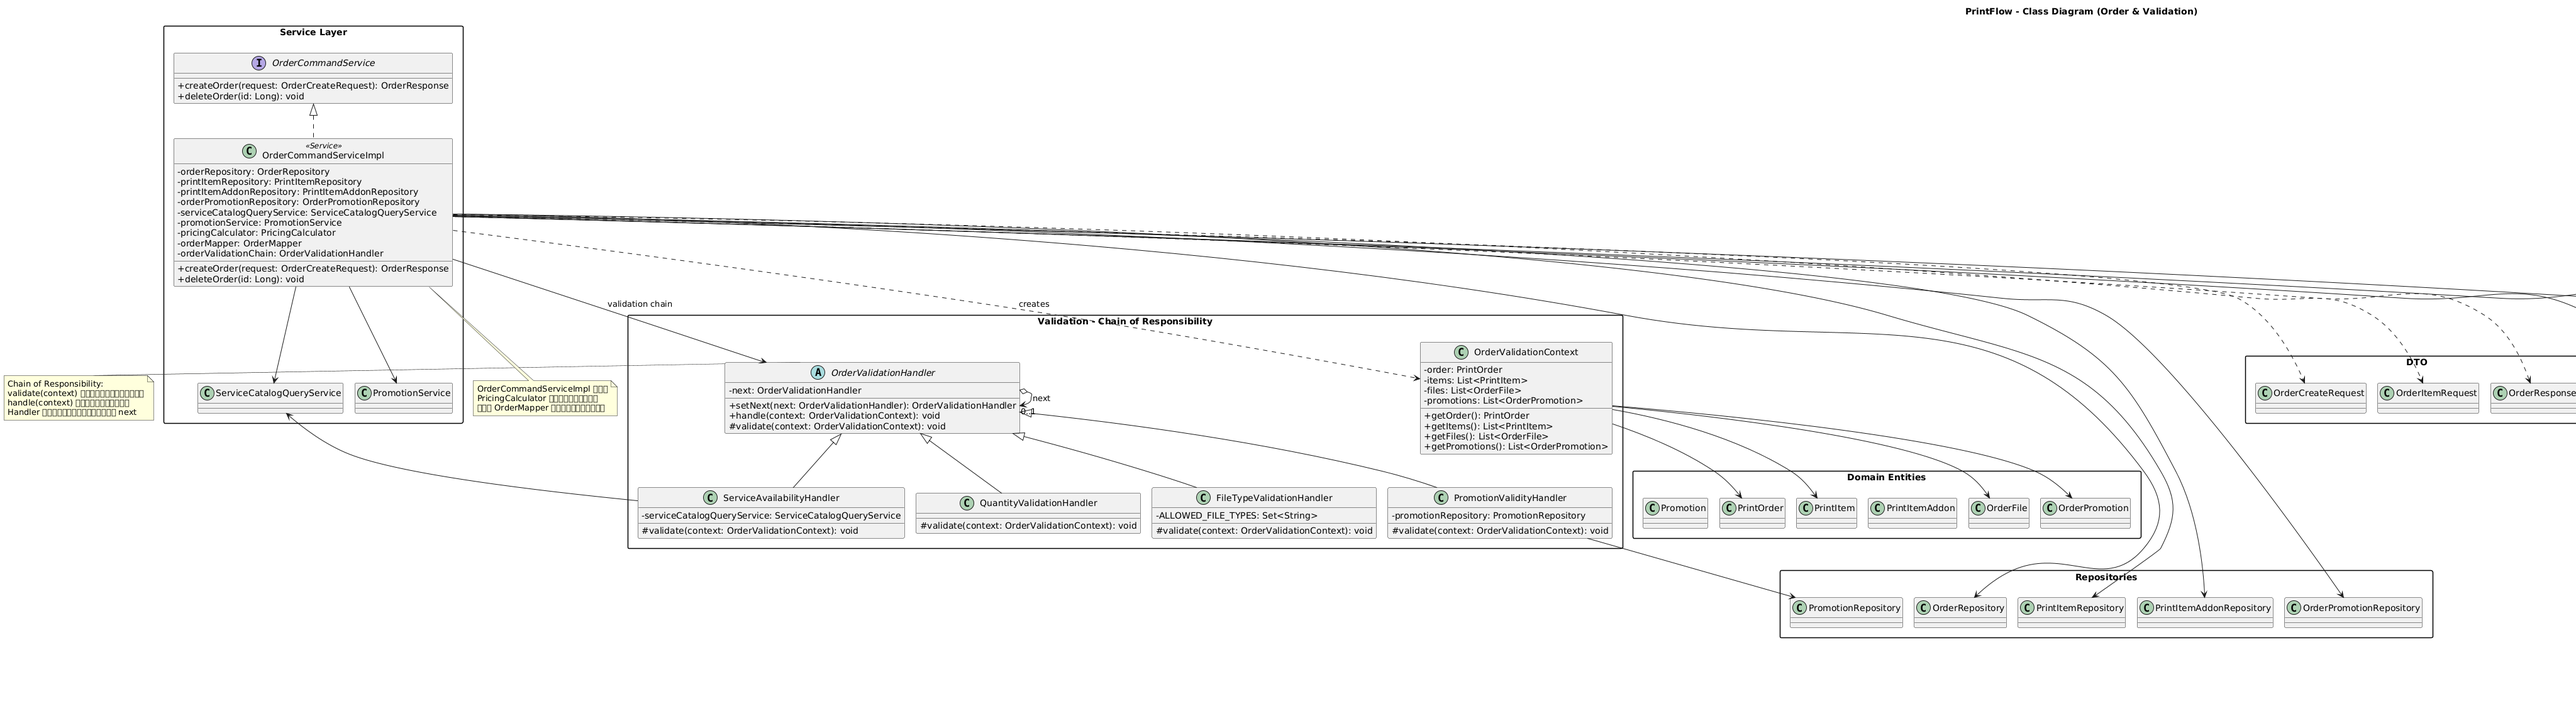
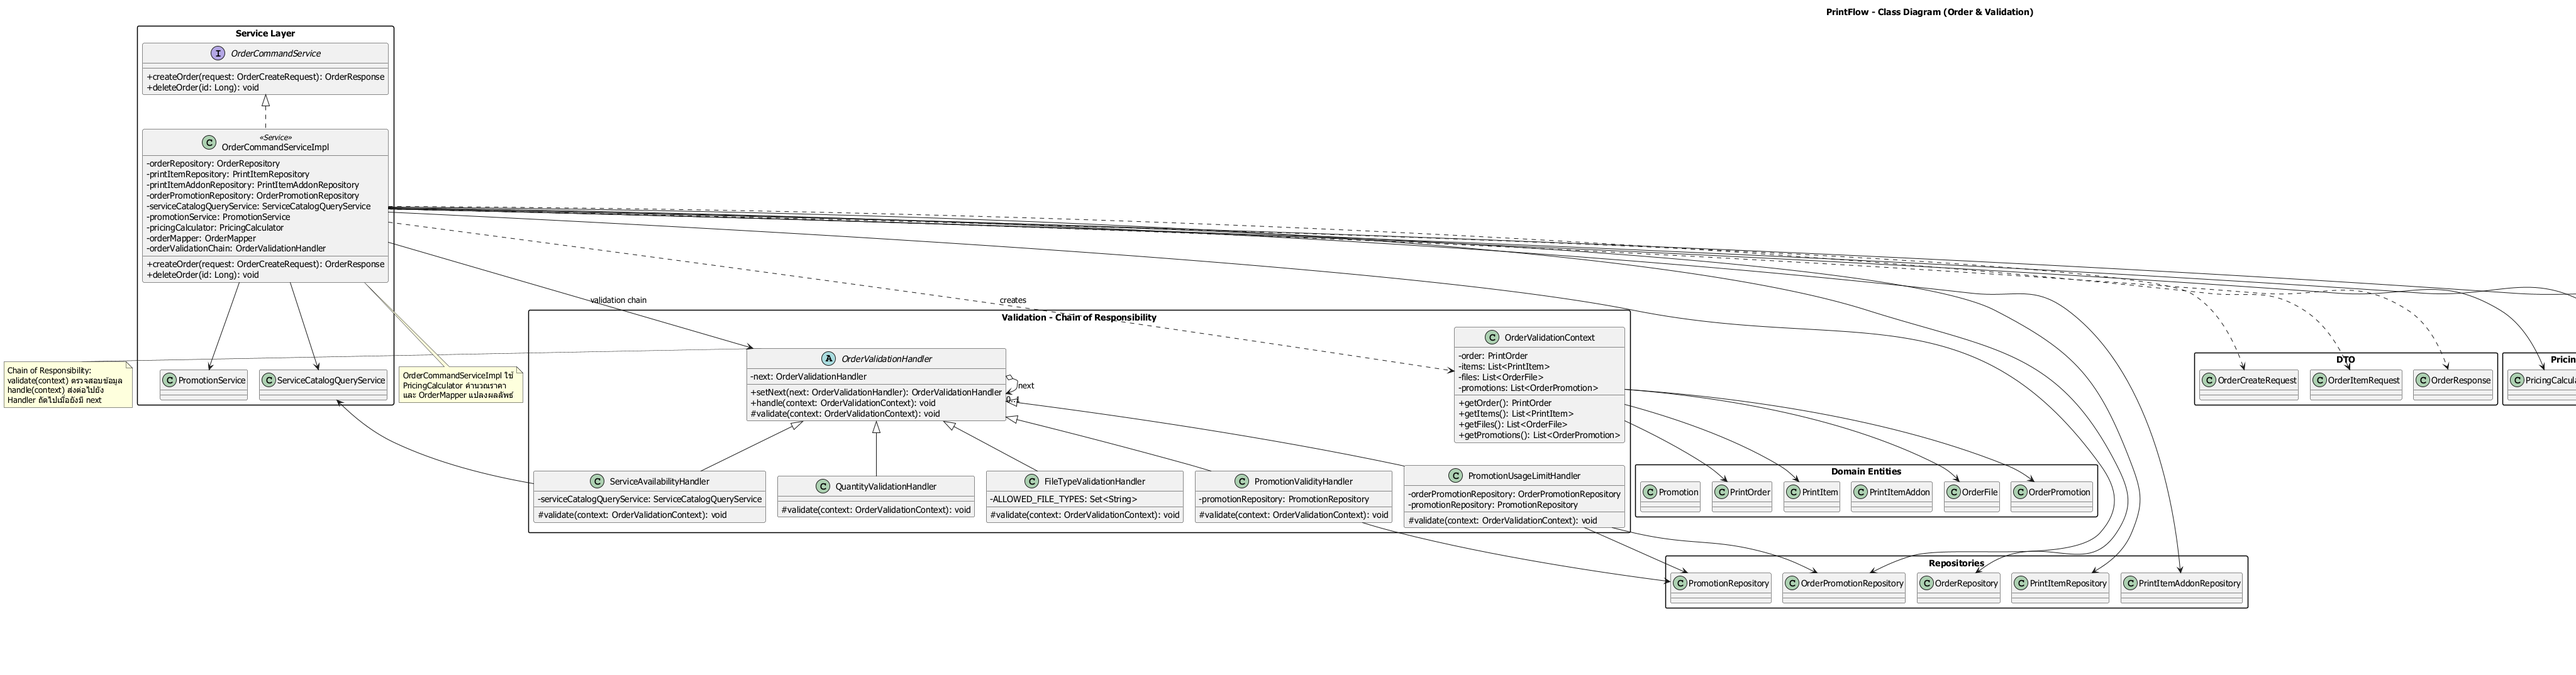
docs: fix SOLID line references and add usage limit handler to class diagram

diff --git a/doc/solid-analysis.md b/doc/solid-analysis.md
@@ -10,12 +10,12 @@
 | ไฟล์/คลาส | บรรทัด | หน้าที่เดียวที่รับผิดชอบ | ผู้รับผิดชอบ |
 |---|---|---|---|
 | `repository/ReportRepository.java` | L18 | รวม query อ่านอย่างเดียวของรายงานไว้ที่เดียว ไม่ปนกับ repository ของ Order/Payment ที่ใช้เขียนข้อมูล | P1 |
-| `exception/GlobalExceptionHandler.java` | L24 | แปลง exception ของทุก REST API เป็น JSON error รูปแบบเดียว controller ไม่ต้อง try/catch เอง | P1 |
+| `exception/GlobalExceptionHandler.java` | L26 | แปลง exception ของทุก REST API เป็น JSON error รูปแบบเดียว controller ไม่ต้อง try/catch เอง | P1 |
 | `mapper/CustomerMapper.java` | L12 | แปลง Entity ↔ DTO อย่างเดียว service ไม่ต้องรู้รูปแบบ response | P1 |
 | `service/impl/ServiceCatalogServiceImpl.java` | L21 | จัดการข้อมูลบริการ/บริการเสริมอย่างเดียว การคำนวณราคาแยกไปอยู่ใน `PricingCalculator` | P2 |
 | `service/strategy/pricing/PricingCalculator.java` | L15 | คำนวณราคาของ 1 รายการพิมพ์ (ราคาพิมพ์ + บริการเสริม) อย่างเดียว | P2 |
 | `validation/QuantityValidationHandler.java` | L6 | ตรวจจำนวนหน้า/จำนวนชุดอย่างเดียว ข้อตรวจอื่นอยู่ใน handler ของตัวเอง | P3 |
-| `mapper/OrderMapper.java` | L14 | ประกอบ `OrderResponse` จาก entity อย่างเดียว ไม่ query ฐานข้อมูลเอง | P3 |
+| `mapper/OrderMapper.java` | L15 | ประกอบ `OrderResponse` จาก entity อย่างเดียว ไม่ query ฐานข้อมูลเอง | P3 |
 | `service/listener/OrderHistoryListener.java` | L10 | บันทึกประวัติการเปลี่ยนสถานะอย่างเดียว ไม่ยุ่งกับการแจ้งเตือน | P4 |
 | `service/listener/InAppNotificationListener.java` | L12 | สร้างการแจ้งเตือนให้ลูกค้าอย่างเดียว ไม่ยุ่งกับประวัติ | P4 |
 | `service/listener/PaymentRefundListener.java` | L14 | เปลี่ยน payment เป็น REFUNDED เมื่อ order ถูกยกเลิกอย่างเดียว | P4 |
@@ -55,7 +55,7 @@
 | `security/CurrentUserProvider.java` | L3 | interface เล็กมี 2 เมธอด (id ของคนที่ login, เป็น STAFF/ADMIN ไหม) ใช้ได้ทุก controller โดยไม่ต้องพึ่ง Spring Security โดยตรง | P1 |
 | `service/ServiceCatalogQueryService.java` / `service/ServiceCatalogCommandService.java` | L10 / L9 | แยกการอ่าน (หน้าลูกค้า) ออกจากการเขียน (หน้า Admin) ฝั่งที่อ่านอย่างเดียวไม่ต้องเห็นเมธอดแก้ไข | P2 |
 | `service/OrderCommandService.java` / `service/OrderQueryService.java` | L6 / L11 | แยกสร้าง/ลบ order ออกจากการค้นหา order | P3 |
-| `service/OrderStatusService.java` | L8 | แยกเรื่องสถานะออกจาก `OrderCommandService` / `OrderQueryService` ฝั่งที่สนใจแค่เปลี่ยนสถานะไม่ต้องพึ่ง interface CRUD ทั้งก้อน | P4 |
+| `service/OrderStatusService.java` | L9 | แยกเรื่องสถานะออกจาก `OrderCommandService` / `OrderQueryService` ฝั่งที่สนใจแค่เปลี่ยนสถานะไม่ต้องพึ่ง interface CRUD ทั้งก้อน | P4 |
 | `service/NotificationService.java` | L7 | มีเฉพาะเมธอดเกี่ยวกับการแจ้งเตือน ไม่ผูกกับ Order | P4 |
 
 ---
@@ -67,6 +67,6 @@
 | `service/impl/CustomerServiceImpl.java` | L27 | รับ `UserRepository`, `PasswordEncoder`, `CustomerMapper` ผ่าน constructor และขึ้นกับ interface ของ Spring (`PasswordEncoder`) ไม่ใช่ `BCryptPasswordEncoder` ตรง ๆ | P1 |
 | `service/impl/AdminUserServiceImpl.java` | L29 | ขึ้นกับ `CurrentUserProvider` (interface) เพื่อเช็กว่าไม่ได้แก้บัญชีตัวเอง ไม่อ่าน `SecurityContextHolder` เอง | P1 |
 | `service/strategy/pricing/PricingCalculator.java` | L15 | ขึ้นกับ `PricingStrategyResolver` และ interface `PricingStrategy` ไม่รู้จักคลาสสูตรตัวจริง | P2 |
-| `service/impl/OrderCommandServiceImpl.java` | L61 | รับทุก dependency ผ่าน constructor และใช้ interface (`OrderValidationHandler`, `DiscountStrategyResolver`, `OrderQueryService`, `ApplicationEventPublisher`) ทำให้เทสต์ใส่สูตรราคา/ส่วนลดตัวจริงหรือ mock ได้ | P3 |
-| `service/impl/OrderStatusServiceImpl.java` | L34 | รับ dependency ผ่าน constructor ทั้งหมด และขึ้นกับ abstraction (`OrderRepository`, `ApplicationEventPublisher`) ไม่ใช่คลาส concrete | P4 |
+| `service/impl/OrderCommandServiceImpl.java` | L62 | รับทุก dependency ผ่าน constructor และใช้ interface (`OrderValidationHandler`, `DiscountStrategyResolver`, `OrderQueryService`, `ApplicationEventPublisher`) ทำให้เทสต์ใส่สูตรราคา/ส่วนลดตัวจริงหรือ mock ได้ | P3 |
+| `service/impl/OrderStatusServiceImpl.java` | L35 | รับ dependency ผ่าน constructor ทั้งหมด และขึ้นกับ abstraction (`OrderRepository`, `ApplicationEventPublisher`) ไม่ใช่คลาส concrete | P4 |
 | `service/listener/InAppNotificationListener.java` | L12 | ขึ้นกับ interface `NotificationService` ไม่ใช่ `NotificationServiceImpl` ทำให้ test ใช้ mock ได้ | P4 |
